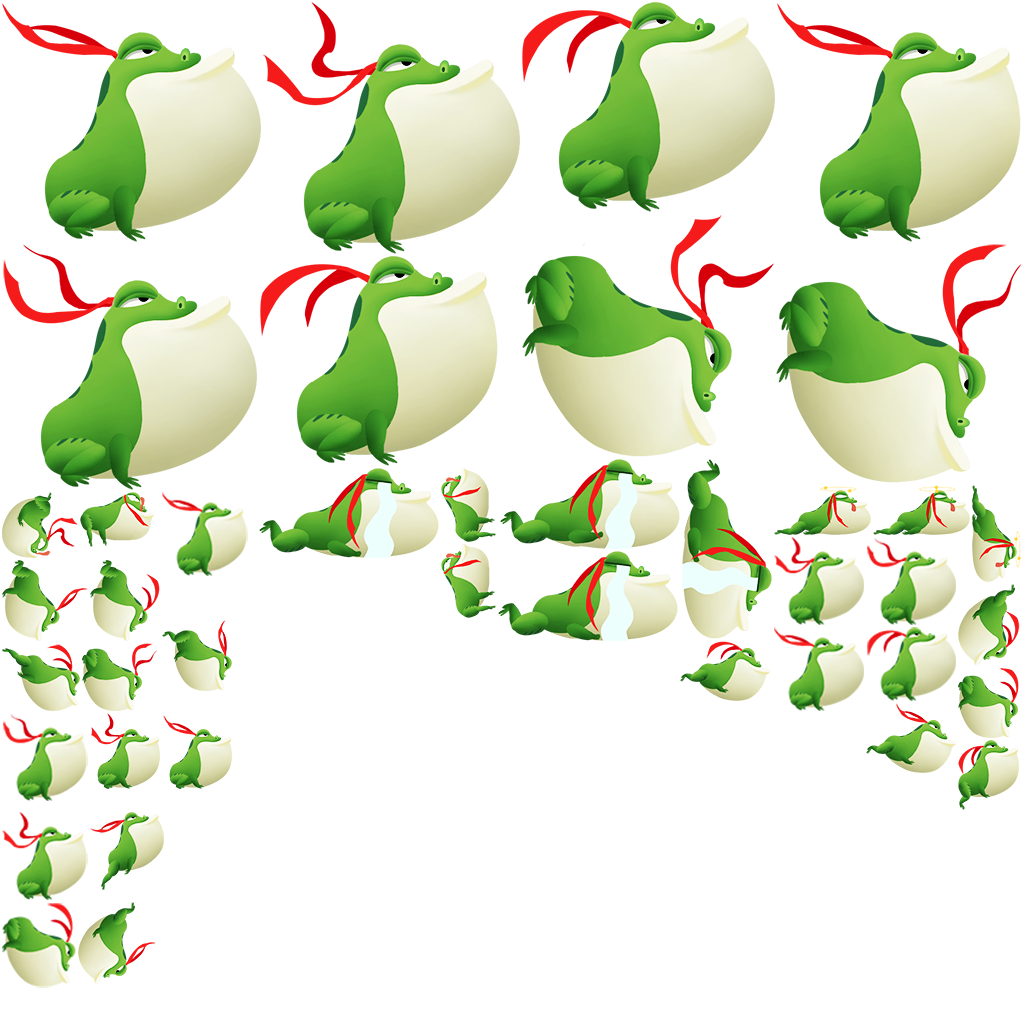
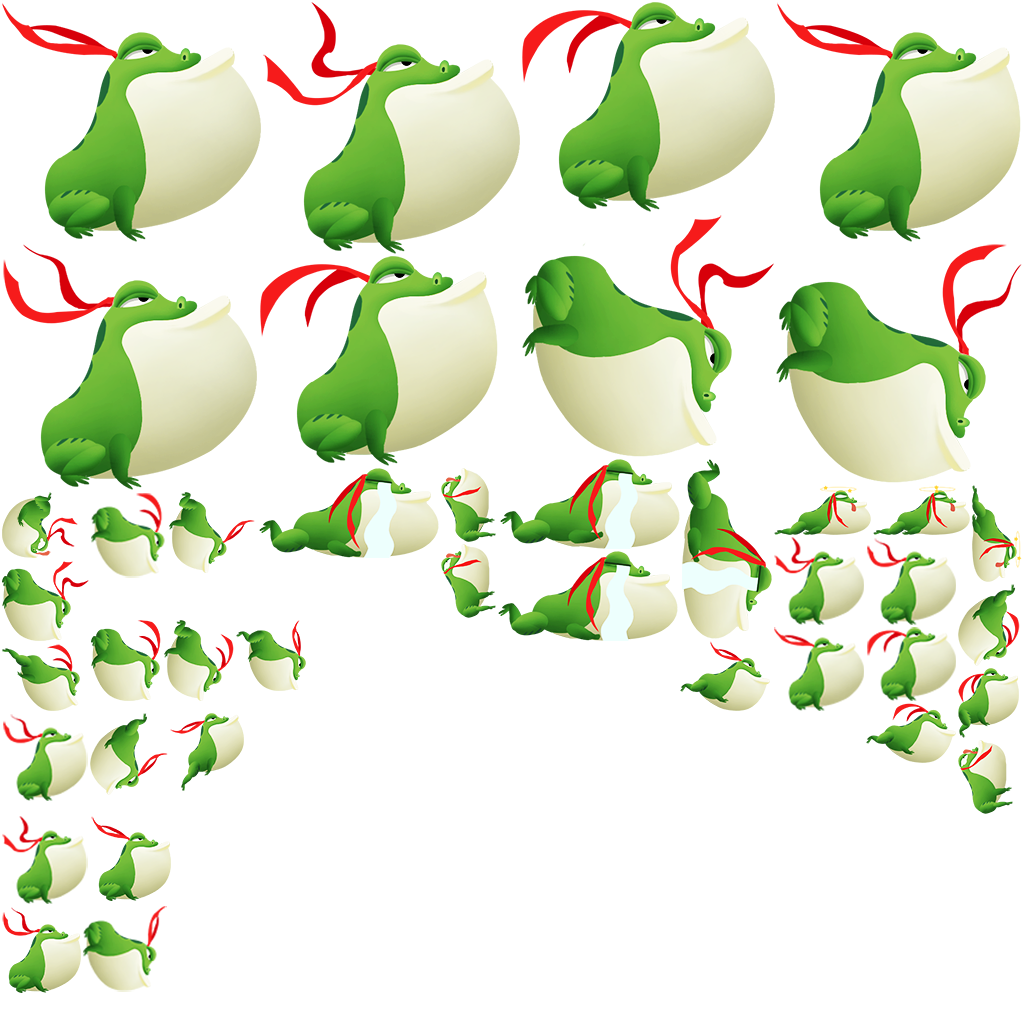
hhx-动画播放不对修改

Changed region(s): [[0.0, 0.4688, 0.3125, 0.9688], [0.8438, 0.6562, 1.0, 0.8125], [0.6562, 0.625, 0.75, 0.7188]]

diff --git a/Classes/gamesprite/HeroFrog.cpp b/Classes/gamesprite/HeroFrog.cpp
@@ -8,14 +8,14 @@
 
 #include "HeroFrog.h"
 #include "helper/GameMainHelper.h"
-int animationCount[7] = {8,4,2,6,2,3,3};
-                   //idel,起跳，上跳，下跳，落地，死亡撞柱子，死亡
-std::string animaFrameName[7] = {"hero_static_%d.png","hero_jpstart_%d.png",
-                            "hero_jpup_%d.png","hero_jpdown_%d.png",
+int animationCount[8] = {8,4,2,4,2,2,3,3};
+                   //idel,起跳，上跳，最高点，下跳，落地，死亡撞柱子，死亡
+std::string animaFrameName[8] = {"hero_static_%d.png","hero_jpstart_%d.png",
+                            "hero_jpup_%d.png","hero_jpdown_%d.png","hero_jpdown1_%d.png",
                             "hero_drop_%d.png","hero_dead2_%d.png",
                             "hero_dead1_%d.png"};
-std::string animaName[7] = {"frogStatic","frogTakeoff",
-    "frogJumpUp","frogJumpDown",
+std::string animaName[8] = {"frogStatic","frogTakeoff",
+    "frogJumpUp","frogJumpDown","frogJumpDown1",
     "frogFall","frogDead1",
     "frogDead2"};
 #define HEROSTATICMUSIC_TIME 5
@@ -43,9 +43,9 @@ void HeroFrog::initData(){
     addChild(drawNode,2);
 }
 void HeroFrog::initAnimation(){
-    for (int i=0; i<7; i++) {
+    for (int i=0; i<8; i++) {
         auto animationStatic = Animation::create();
-        for( int j=1;j<animationCount[i];j++)
+        for( int j=0;j<animationCount[i];j++)
         {
             char szName[100] = {0};
             sprintf(szName, animaFrameName[i].c_str(), j);
@@ -118,6 +118,14 @@ void HeroFrog::setHeroStatus(FrogStatus heroStatus){
     this->stopAllActions();
     ani = AnimationCache::getInstance()->getAnimation(animaName[heroStatus].c_str());
     
+    Animation* ani1;
+    Animate* ac1;
+    if (heroStatus == frogJumpDown) {
+        ani1 = AnimationCache::getInstance()->getAnimation(animaName[heroStatus+1].c_str());
+    }
+    
+    
+    
     
     Sequence* seq;
     float y;
@@ -140,22 +148,25 @@ void HeroFrog::setHeroStatus(FrogStatus heroStatus){
         case frogTakeoff:
             ac= Animate::create(ani) ;
             ani->setDelayPerUnit(0.5);
-            runAction(ac);
+            
+            runAction(RepeatForever::create(ac));
             break;
         case frogJumpUp:
         	if(m_isLongJump)
                GameMainHelper::getInstance()->playSound(JUMPSTART_1);
         	else
         		GameMainHelper::getInstance()->playSound(JUMPSTART_0);
-            ani->setDelayPerUnit(2); //--------待计算
+            ani->setDelayPerUnit(0.2); //--------待计算
             ac= Animate::create(ani);
-            runAction(ac);
+            runAction(RepeatForever::create(ac));
             
             break;
         case frogJumpDown:
             ani->setDelayPerUnit(downAnimSpeed); //--------待计算
+            ani1->setDelayPerUnit(0.2);
             ac= Animate::create(ani);
-            runAction(ac);
+            ac1 = Animate::create(ani1);
+            runAction(Sequence::create(ac,Repeat::create(ac1,20), NULL) );
             break;
         case frogFall:
             ani->setDelayPerUnit(downAnimSpeed);

diff --git a/Classes/gamesprite/HeroFrog.h b/Classes/gamesprite/HeroFrog.h
@@ -14,7 +14,7 @@ typedef enum{
     frogTakeoff,       //主角起跳
     frogJumpUp,        //主角上跳
     frogJumpDown,      //主角下跳
-    frogFall,          //主角落地
+    frogFall =5,          //主角落地
     frogDead1,         //主角死亡碰桩子死亡
     frogDead2,         //主角掉地上死亡
 }FrogStatus;

diff --git a/Classes/loadingscene/StartLayer.cpp b/Classes/loadingscene/StartLayer.cpp
@@ -104,7 +104,7 @@ void StartLayer::initHero(){
     m_spHero = Sprite::createWithSpriteFrameName("hero_load_0.png");
     
     auto animation = Animation::create();
-    for( int i=1;i<8;i++)
+    for( int i=0;i<8;i++)
     {
         char szName[100] = {0};
         sprintf(szName, "hero_load_%d.png", i);
